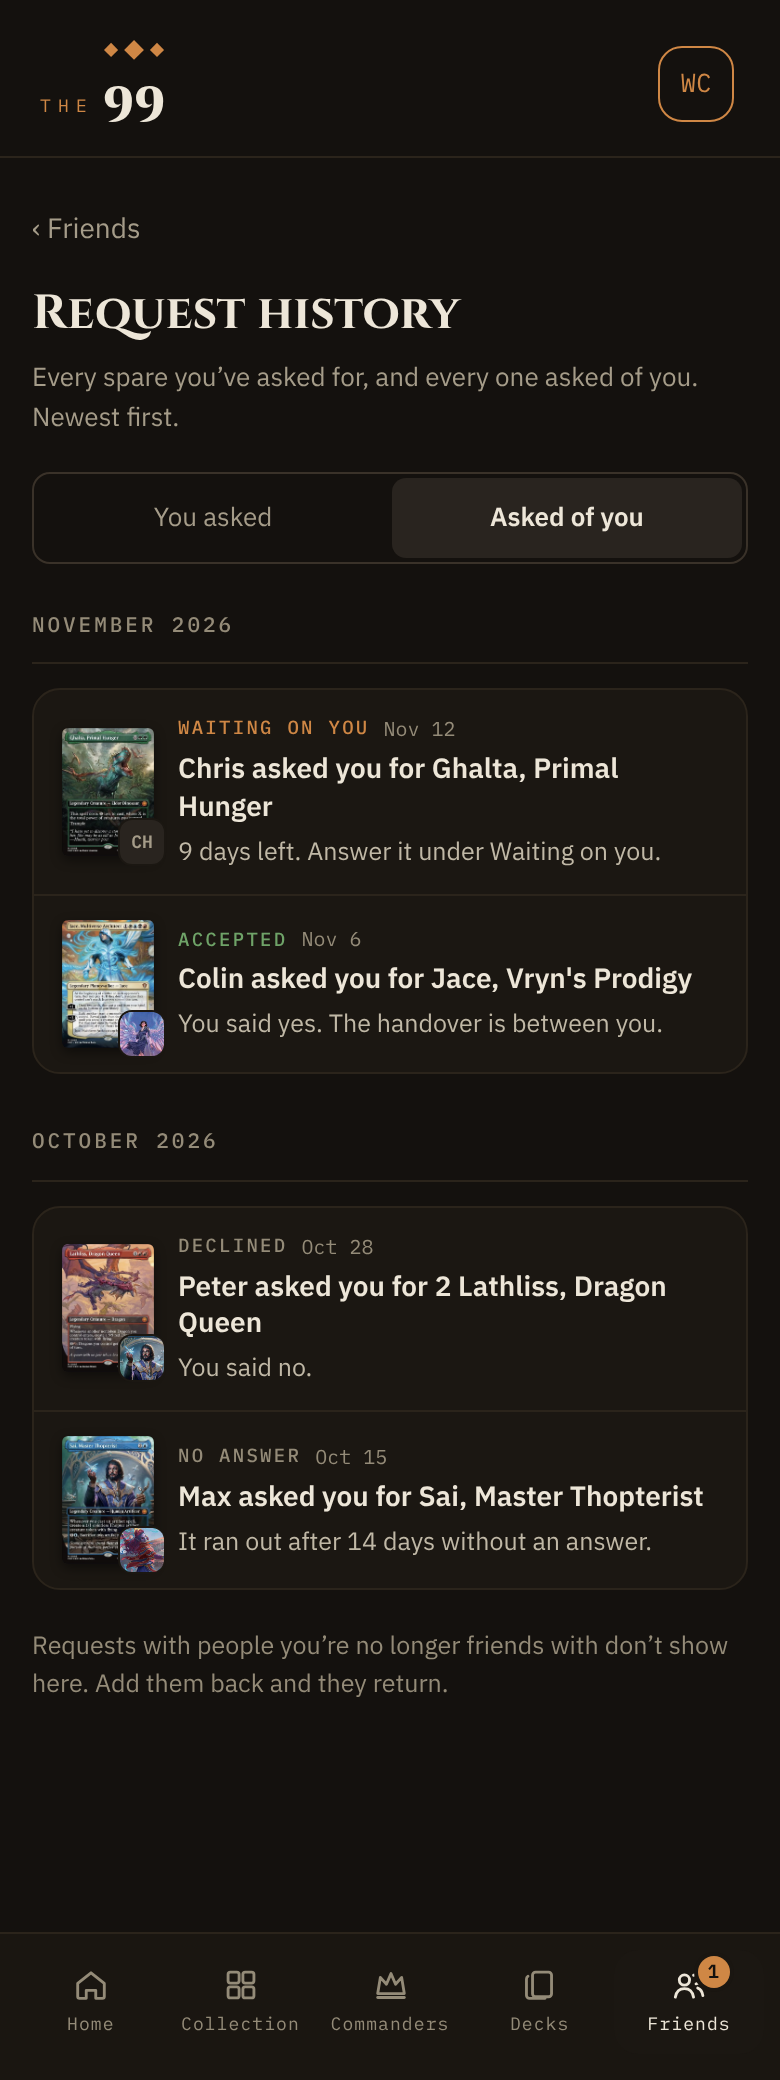
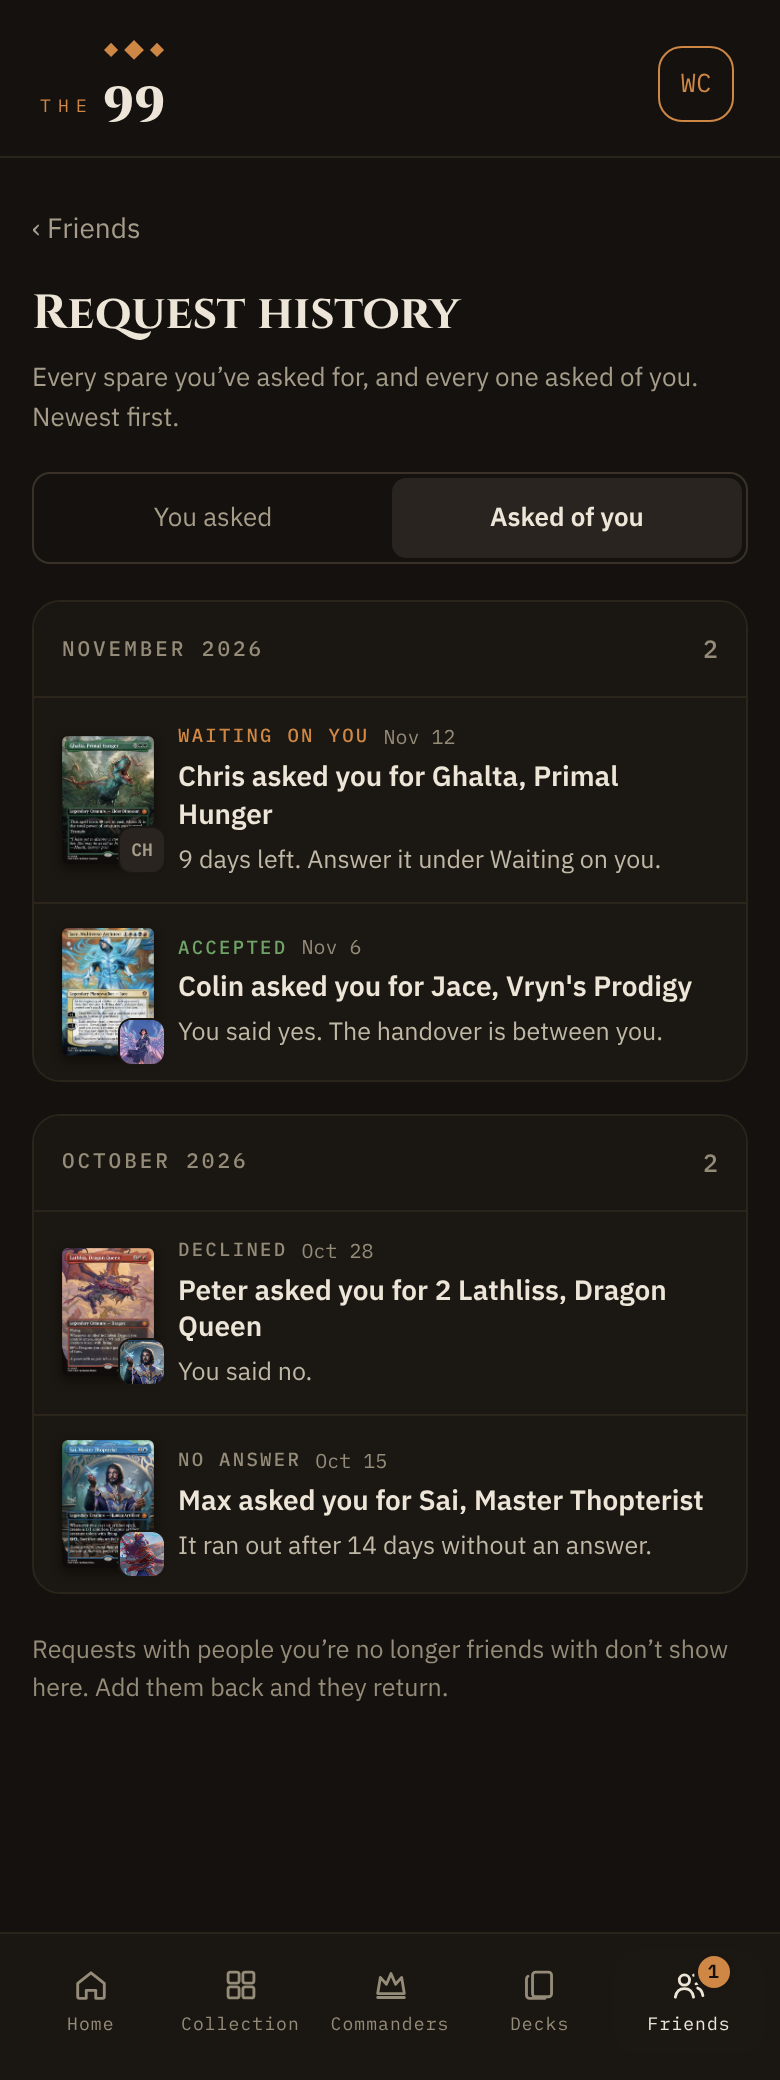
account-2 2026-11-18: card request history R1b (Hugh's feedback)
Sections become boxes with their heading in a header band (Waiting on you, Your requests,
Friends, history months); empty states get the handover mark.

Claude-Session: https://claude.ai/code/session_01UvpaAYUDrERzo7c7bK7Wse

diff --git a/account-2/design_handoff_the99_request_history/scratch-gen/section-panel.tsx b/account-2/design_handoff_the99_request_history/scratch-gen/section-panel.tsx
@@ -1,0 +1,58 @@
+// PROPOSAL (request history R1b, Hugh 2026-11-17): a section's heading and its links live INSIDE the box that holds its
+// rows, as the box's header band, never on a bare hairline above it. One shape for Waiting on you, Your requests, Friends
+// and each month of Request history. Empty states get a drawn mark, from the CardFan family's tokens.
+import type { ReactNode } from "react";
+import { SpareGlyph } from "./spare-key-item";
+
+/** The box: the shipped list well (Your requests' `ul`), now holding its own heading. */
+export const PANEL =
+  "mt-[26px] overflow-hidden rounded-[14px] bg-[color:var(--surface-inset)] [border:1px_solid_var(--border)] md:mt-[34px]";
+
+/** The header band: the shipped section-head type, on the rail ground, a hairline under it, links at its end. */
+export const BAND =
+  "m-0 flex min-h-[48px] items-center justify-between gap-[12px] bg-[color:var(--surface-rail)] pl-[14px] pr-[6px] font-mono text-[10.5px] font-medium uppercase tracking-[.14em] text-[color:var(--fg-faint)] outline-none [border-bottom:1px_solid_var(--border)] md:min-h-[44px] md:pl-[16px] md:pr-[8px]";
+
+/** A link or press at the band's end: 44px tall at phone, the bar's sans. */
+export const BAND_LINK =
+  "flex min-h-[44px] items-center px-[8px] font-sans text-[12.5px] font-medium normal-case tracking-normal text-[color:var(--fg)] no-underline md:min-h-[36px]";
+
+/**
+ * The handover mark: two cards, a friend's (dashed, behind) and the one passed (accent edge, tilted forward), with the
+ * spare glyph on the passed card. Tokens only, in CardFan's inks. Decorative: the heading says it in words.
+ */
+export function HandoverMark({ size = "sm" }: { size?: "sm" | "lg" }) {
+  const lg = size === "lg";
+  const W = lg ? 132 : 72, H = lg ? 112 : 62, cw = lg ? 54 : 30, ch = lg ? 76 : 42, rx = lg ? 8 : 5;
+  return (
+    <span aria-hidden className="relative inline-flex" style={{ width: W, height: H }}>
+      <svg viewBox={`0 0 ${W} ${H}`} width={W} height={H}>
+        <g transform={`translate(${W * 0.36}, ${H / 2}) rotate(-10)`}>
+          <rect x={-cw / 2} y={-ch / 2} width={cw} height={ch} rx={rx} fill="var(--elevated)" stroke="var(--border-dashed)" strokeWidth="1.5" strokeDasharray="4 3" />
+        </g>
+        <g transform={`translate(${W * 0.62}, ${H / 2 + (lg ? 4 : 2)}) rotate(12)`}>
+          <rect x={-cw / 2} y={-ch / 2} width={cw} height={ch} rx={rx} fill="var(--border)" stroke="var(--accent)" strokeWidth="1.5" />
+        </g>
+        <path d={lg ? `M ${W * 0.2} ${H * 0.16} C ${W * 0.38} ${H * 0.02}, ${W * 0.62} ${H * 0.02}, ${W * 0.78} ${H * 0.14}` : `M ${W * 0.2} ${H * 0.14} C ${W * 0.38} ${H * 0.01}, ${W * 0.62} ${H * 0.01}, ${W * 0.78} ${H * 0.12}`}
+          fill="none" stroke="var(--fg-faint)" strokeWidth="1.5" strokeLinecap="round" />
+        <path d={`M ${W * 0.78 - 5} ${H * (lg ? 0.14 : 0.12) - 5} L ${W * 0.78} ${H * (lg ? 0.14 : 0.12)} L ${W * 0.78 - 6} ${H * (lg ? 0.14 : 0.12) + 3}`}
+          fill="none" stroke="var(--fg-faint)" strokeWidth="1.5" strokeLinecap="round" strokeLinejoin="round" />
+      </svg>
+      <span className="absolute text-[color:var(--fact)]" style={{ left: W * 0.62 - (lg ? 11 : 7), top: H / 2 + (lg ? 4 : 2) - (lg ? 11 : 7) }}>
+        <SpareGlyph size={lg ? 22 : 14} />
+      </span>
+    </span>
+  );
+}
+
+/** An empty panel body: the mark, a title, one line, at most one press. */
+export function PanelEmpty({ title, body, action, size = "sm" }: { title: string; body: string; action?: ReactNode; size?: "sm" | "lg" }) {
+  const lg = size === "lg";
+  return (
+    <div className={`flex flex-col items-center text-center ${lg ? "gap-[8px] px-[22px] pb-[30px] pt-[28px] md:pb-[38px] md:pt-[36px]" : "gap-[6px] px-[18px] pb-[22px] pt-[20px]"}`}>
+      <HandoverMark size={size} />
+      <p className={`m-0 mt-[6px] font-display font-bold text-[color:var(--fg)] ${lg ? "text-[19px] md:text-[21px]" : "text-[16px]"}`}>{title}</p>
+      <p className={`m-0 max-w-[380px] leading-[1.55] text-[color:var(--fg-body)] ${lg ? "text-[13.5px]" : "text-[13px]"}`}>{body}</p>
+      {action}
+    </div>
+  );
+}

diff --git a/account-2/design_handoff_the99_request_history/Main.dc.html b/account-2/design_handoff_the99_request_history/Main.dc.html
@@ -20,16 +20,21 @@ p{margin:0}
 .box{border:1px solid #3A3229;border-radius:14px;padding:22px 24px;display:flex;flex-direction:column;gap:12px;background:#15120F}
 </style>
 </helmet>
-<div style="width: 1400px; min-height: 1500px; box-sizing: border-box; padding: 48px 56px 64px; background: #0D0B09; font-family: 'IBM Plex Sans', sans-serif; color: #EDE6D8; display: flex; flex-direction: column; gap: 26px">
+<div style="width: 1400px; min-height: 1800px; box-sizing: border-box; padding: 48px 56px 64px; background: #0D0B09; font-family: 'IBM Plex Sans', sans-serif; color: #EDE6D8; display: flex; flex-direction: column; gap: 26px">
 <div style="display: flex; flex-direction: column; gap: 9px">
 <p class="lab"><b>R1</b> · Issue #2984 · Account 2 · 2026-11-18</p>
 <h1 style="margin: 0; font: 700 34px 'Cinzel', serif">Request history</h1>
 <p style="font-size: 15px; line-height: 1.6; color: #C0B8A6; max-width: 1100px">Every spare request you made, and every one made of you, with how it ended and when. The data is already kept: a ✕ only marks an ask cleared, never deletes it. Every frame is the shipped shell and the shipped Friends page, rendered from main with the shipped CSS, with this round’s proposal applied.</p>
 </div>
+<div class="box" style="border-color: #CF8745">
+<p class="lab"><b>R1b</b> · Hugh’s feedback, 2026-11-17</p>
+<div class="it"><span class="n">B1</span><p><b>Headings live inside their box.</b> Waiting on you, Your requests, Friends and each month of history are one panel: a header band (the shipped section-head type on the rail ground, links at its end) above the rows. No heading on a bare hairline.</p></div>
+<div class="it"><span class="n">B2</span><p><b>Empty states get a drawn mark</b>: the handover mark (a friend’s dashed card, the passed card with an accent edge and the spare glyph, an arc between) in CardFan’s inks, then a title and one line. Small inside Your requests (E2), large on an empty history tab (H3).</p></div>
+</div>
 <div style="display: grid; grid-template-columns: repeat(2, minmax(0, 1fr)); gap: 24px">
 <div class="box">
 <p class="lab"><b>Calls</b></p>
-<div class="it"><span class="n">1</span><p><b>The way in is “History ›” on Your requests’ head</b>, beside “newest first” (E1). With nothing open but a history, the section stays as its head and “Nothing open right now.” (E2). With no history at all, the section is absent, as today. The answer sheet’s “All your requests ›” is unchanged.</p></div>
+<div class="it"><span class="n">1</span><p><b>The way in is “History ›” in Your requests’ band</b>, beside “newest first” (E1). With nothing open but a history, the box stays with its band and an empty state (E2). With no history at all, the section is absent, as today. The answer sheet’s “All your requests ›” is unchanged.</p></div>
 <div class="it"><span class="n">2</span><p><b>One page, /friends/requests</b>: the friend page’s “‹ Friends”, a title, one line, and the shipped segmented switch (compact; fills the width on a phone): <b>You asked · Asked of you</b>. No new menu row.</p></div>
 <div class="it"><span class="n">3</span><p><b>Rows are Your requests’ shipped rows</b>: the card at card shape with the friend’s face in its corner, kicker, title, line. <b>No ✕ and no Ask again</b>: history only shows, and the live list keeps every action (one control per action). <b>The whole row opens card details.</b></p></div>
 <div class="it"><span class="n">4</span><p><b>Outcomes in the shipped words.</b> You asked: Requested, Accepted, Declined, No answer, Withdrawn. Asked of you: Waiting on you, Accepted, Declined, No answer. The kicker’s date is when it ended (an open one: when asked); the line names the deck and the day you asked.</p></div>
@@ -56,7 +61,7 @@ p{margin:0}
 </div>
 </div>
 </x-dc>
-<script type="text/x-dc" data-dc-script data-props='{"$preview":{"width":1400,"height":1500}}'>
+<script type="text/x-dc" data-dc-script data-props='{"$preview":{"width":1400,"height":1800}}'>
 class Component extends DCLogic {
 renderVals() { return {}; }
 }

diff --git a/account-2/design_handoff_the99_request_history/Entry.dc.html b/account-2/design_handoff_the99_request_history/Entry.dc.html
@@ -21,15 +21,16 @@ p{margin:0}
 .shot{display:block;width:100%;border-radius:14px;border:1px solid #3A3229}
 </style>
 </helmet>
-<div style="width: 1622px; min-height: 1180px; box-sizing: border-box; padding: 48px 56px 64px; background: #0D0B09; font-family: 'IBM Plex Sans', sans-serif; color: #EDE6D8; display: flex; flex-direction: column; gap: 30px">
+<div style="width: 1622px; min-height: 1480px; box-sizing: border-box; padding: 48px 56px 64px; background: #0D0B09; font-family: 'IBM Plex Sans', sans-serif; color: #EDE6D8; display: flex; flex-direction: column; gap: 30px">
 <div style="display: flex; flex-direction: column; gap: 9px; max-width: 1500px">
 <p class="lab"><b>E</b> · Friends · 390 and 1300</p>
+<p class="lab"><b>R1b</b> · every section is a box with its heading inside</p>
 <h2 style="margin: 0; font: 700 30px 'Cinzel', serif">History is one press from Your requests</h2>
-<p style="font-size: 14px; line-height: 1.6; color: #C0B8A6">The shipped section gains “History ›” on its head. Nothing else on the rows changes.</p>
+<p style="font-size: 14px; line-height: 1.6; color: #C0B8A6">Each section (Waiting on you, Your requests, Friends) is now one box: its heading and links sit in a header band inside, on the rail ground, above the rows. “History ›” ends Your requests’ band. The rows themselves are unchanged.</p>
 </div>
 <div style="display: flex; gap: 40px; align-items: flex-start">
-<div class="ph"><p class="lab"><b>E1</b> · two open, phone</p><img class="shot" src="art/E1-phone.png" alt="Friends on a phone: Your requests with History on its head"><p class="cap"><b>History ›</b> sits after “newest first”, a 44px press.</p></div>
-<div class="ph"><p class="lab"><b>E2</b> · nothing open, phone</p><img class="shot" src="art/E2-phone.png" alt="Friends on a phone: Your requests head with Nothing open right now"><p class="cap">Nothing live but a history to show: the head and <b>“Nothing open right now.”</b> No history: the section is absent, as today.</p></div>
+<div class="ph"><p class="lab"><b>E1</b> · two open, phone</p><img class="shot" src="art/E1-phone.png" alt="Friends on a phone: Your requests with History on its head"><p class="cap"><b>History ›</b> sits after “newest first” in the band, a 44px press. Friends gets the same box.</p></div>
+<div class="ph"><p class="lab"><b>E2</b> · nothing open, phone</p><img class="shot" src="art/E2-phone.png" alt="Friends on a phone: Your requests head with Nothing open right now"><p class="cap">Nothing live but a history to show: the box keeps its band, with the <b>handover mark</b>, a title and one line. No history: the section is absent, as today.</p></div>
 <div style="display: flex; flex-direction: column; gap: 30px">
 <div class="dk"><p class="lab"><b>E1</b> · two open, desktop</p><img class="shot" src="art/E1-desk.png" alt="Friends on desktop with History on Your requests"></div>
 <div class="dk"><p class="lab"><b>E2</b> · nothing open, desktop</p><img class="shot" src="art/E2-desk.png" alt="Friends on desktop with nothing open"></div>
@@ -37,7 +38,7 @@ p{margin:0}
 </div>
 </div>
 </x-dc>
-<script type="text/x-dc" data-dc-script data-props='{"$preview":{"width":1622,"height":1180}}'>
+<script type="text/x-dc" data-dc-script data-props='{"$preview":{"width":1622,"height":1480}}'>
 class Component extends DCLogic {
 renderVals() { return {}; }
 }

diff --git a/account-2/design_handoff_the99_request_history/scratch-gen/request-history.tsx b/account-2/design_handoff_the99_request_history/scratch-gen/request-history.tsx
@@ -11,6 +11,7 @@ import { PersonInitials, PersonText, personText, type PersonParts, type ThirdPar
 import { FadingImg } from "../ui/hydrated-art";
 import { ART_CROP_TRIM } from "../ui/art-crop-trim";
 import { SegmentedSwitch } from "../ui/segmented-switch";
+import { BAND, PANEL, PanelEmpty } from "./section-panel";
 
 export type HistoryRow = {
   id: string;
@@ -51,7 +52,8 @@ export const historyCopy = {
   emptyAsked: { title: "You haven’t asked for a spare yet", body: "Ask a friend from a card’s spares in Shopping or on their Spares tab." },
   emptyOfYou: { title: "Nobody has asked you for a spare yet", body: "When a friend asks for one of your spares, it waits on you on Friends." },
   entry: "History ›",
-  noneOpen: "Nothing open right now.",
+  noneOpenTitle: "Nothing open right now",
+  noneOpenBody: "Ask a friend for a spare from Shopping or their Spares tab. Every past request is in History.",
 } as const;
 const h = historyCopy;
 
@@ -97,9 +99,9 @@ export function HistoryList({ rows, dir, more }: { rows: readonly HistoryRow[]; 
   return (
     <div className="flex flex-col">
       {groups.map((g) => (
-        <section key={g.label} className="mt-[22px] first:mt-[18px]">
-          <h2 className="m-0 flex min-h-[32px] items-center font-mono text-[10.5px] font-medium uppercase tracking-[.14em] text-[color:var(--fg-faint)] [border-bottom:1px_solid_var(--border)] pb-[6px]">{g.label}</h2>
-          <ul className="m-0 mt-[12px] flex list-none flex-col overflow-hidden rounded-[14px] bg-[color:var(--surface-inset)] p-0 [border:1px_solid_var(--border)]">
+        <section key={g.label} className={`${PANEL} mt-[16px]! first:mt-[18px]!`}>
+          <h2 className={BAND}>{g.label}<span className="pr-[8px] font-sans text-[12.5px] font-medium normal-case tracking-normal">{g.rows.length}</span></h2>
+          <ul className="m-0 flex list-none flex-col p-0">
             {g.rows.map((a) => {
               const t = rowText(a, dir);
               return (
@@ -133,9 +135,8 @@ export function HistoryList({ rows, dir, more }: { rows: readonly HistoryRow[]; 
 function Empty({ dir }: { dir: "asked" | "ofYou" }) {
   const e = dir === "asked" ? h.emptyAsked : h.emptyOfYou;
   return (
-    <div className="mt-[18px] rounded-[14px] bg-[color:var(--surface-inset)] px-[18px] py-[22px] [border:1px_solid_var(--border)]">
-      <p className="m-0 text-[14px] font-semibold text-[color:var(--fg)]">{e.title}</p>
-      <p className="m-0 mt-[4px] text-[12.5px] leading-[1.5] text-[color:var(--fg-body)]">{e.body}</p>
+    <div className={`${PANEL} mt-[18px]!`}>
+      <PanelEmpty size="lg" title={e.title} body={e.body} />
     </div>
   );
 }

diff --git a/account-2/design_handoff_the99_request_history/History-Phone.dc.html b/account-2/design_handoff_the99_request_history/History-Phone.dc.html
@@ -24,12 +24,12 @@ p{margin:0}
 <div style="display: flex; flex-direction: column; gap: 9px; max-width: 1200px">
 <p class="lab"><b>H</b> · /friends/requests · 390</p>
 <h2 style="margin: 0; font: 700 30px 'Cinzel', serif">Every request, how it ended, and when</h2>
-<p style="font-size: 14px; line-height: 1.6; color: #C0B8A6">Your requests’ shipped rows with no ✕ and no Ask again. The whole row opens card details.</p>
+<p style="font-size: 14px; line-height: 1.6; color: #C0B8A6">Each month is one box, its name and count in the header band. Your requests’ shipped rows with no ✕ and no Ask again; the whole row opens card details.</p>
 </div>
 <div style="display: flex; gap: 40px; align-items: flex-start">
 <div class="ph"><p class="lab"><b>H1</b> · You asked</p><img class="shot" src="art/H1-phone.png" alt="Request history, You asked, grouped by month"><p class="cap">Every outcome: Requested, Accepted, Declined, Withdrawn, No answer. A cleared ask still shows. <b>Show older requests</b> after 30.</p></div>
 <div class="ph"><p class="lab"><b>H2</b> · Asked of you</p><img class="shot" src="art/H2-phone.png" alt="Request history, Asked of you"><p class="cap">An open one says <b>where to answer</b>, never offers Yes or No here. No withdrawn rows on this side. The foot line shows only when an ex-friend has rows (Q2).</p></div>
-<div class="ph"><p class="lab"><b>H3</b> · an empty tab</p><img class="shot" src="art/H3-phone.png" alt="Request history, Asked of you empty"><p class="cap">One tab can be empty while the other is not: it names where requests come from.</p></div>
+<div class="ph"><p class="lab"><b>H3</b> · an empty tab</p><img class="shot" src="art/H3-phone.png" alt="Request history, Asked of you empty"><p class="cap">One tab can be empty while the other is not: the large handover mark, a title, and where requests come from, in the same box.</p></div>
 </div>
 </div>
 </x-dc>

diff --git a/account-2/design_handoff_the99_request_history/scratch-gen/render.tsx b/account-2/design_handoff_the99_request_history/scratch-gen/render.tsx
@@ -79,8 +79,8 @@ const friendsPage = (rows: any[]) => (
     waiting={<YourRequests rows={rows} now={NOW} history />} />
 );
 for (const dev of ["phone", "desk"] as Dev[]) {
-  app(`E1-${dev}`, dev, friendsPage(LIVE));
-  app(`E2-${dev}`, dev, friendsPage([]));
+  app(`E1-${dev}`, dev, friendsPage(LIVE), { vh: dev === "phone" ? 1180 : 960 });
+  app(`E2-${dev}`, dev, friendsPage([]), { vh: dev === "phone" ? 1140 : 860 });
   app(`H1-${dev}`, dev, <RequestHistory asked={ASKED} ofYou={OFYOU} tab="asked" more />, { path: "/friends", vh: dev === "phone" ? 1390 : 1300 });
   app(`H2-${dev}`, dev, <RequestHistory asked={ASKED} ofYou={OFYOU} tab="ofYou" exFriends />, { path: "/friends", vh: dev === "phone" ? 1040 : 900 });
 }

diff --git a/account-2/design_handoff_the99_request_history/README.md b/account-2/design_handoff_the99_request_history/README.md
@@ -1,12 +1,16 @@
-# The 99 — Card request history · R1 · awaiting Hugh's review
+# The 99 — Card request history · R1b · awaiting Hugh's review
 
 Account 2, 2026-11-18. Issue featherweight-design/the-99#2984. Canvas (account 2): "The 99 · Request History R1".
 Open the `.dc.html` files with `support.js` beside them; frames are PNGs in `art/` (the shipped shell and Friends page
 rendered from main with the shipped CSS, with the proposal applied).
 
+## R1b (Hugh, 2026-11-17)
+- **B1 Headings live inside their box.** Waiting on you, Your requests, Friends and each history month are one panel (`PANEL`): a header band (`BAND`: shipped section-head type on `--surface-rail`, hairline under, links at its end via `BAND_LINK`) above the rows. No heading on a bare hairline. `scratch-gen/section-panel.tsx`, `scratch-gen/sections.diff`.
+- **B2 Empty states get a drawn mark**: `HandoverMark` (friend's dashed card, the passed card with accent edge and spare glyph, an arc), CardFan inks, then title and one line (`PanelEmpty`, sm in Your requests E2, lg on an empty history tab H3).
+
 ## Calls
 1. **Way in: "History ›" on Your requests' head**, after "newest first" (E1). Nothing open but a history: the head and
-   "Nothing open right now." (E2). No history: section absent, as today. The answer sheet's "All your requests ›" stays.
+   an empty state, "Nothing open right now" (E2). No history: section absent, as today. The answer sheet's "All your requests ›" stays.
 2. **One page, `/friends/requests`**: "‹ Friends", title "Request history", one line, the shipped `SegmentedSwitch`
    (compact, `fill` on phone, `kind="tabs"`): **You asked · Asked of you**.
 3. **Rows = Your requests' shipped rows** (card at card shape, friend's face in the corner, kicker, title, line) with
@@ -32,5 +36,5 @@ rendered from main with the shipped CSS, with the proposal applied).
 - G5 Copy review owed on the new strings (`scratch-gen/request-history.tsx`, `historyCopy`).
 
 ## scratch-gen
-`request-history.tsx` (the page as code), `your-requests.diff` (the head link and empty state), `render.tsx` (frames).
+`request-history.tsx` (the page as code), `section-panel.tsx` (the box, band and empty mark), `sections.diff` (Your requests, Waiting on you, Friends), `render.tsx` (frames).
 Pipeline as `design_handoff_the99_friends_link/scratch-gen/README.md` (scratch copy of main, stubs, css.mjs, shoot.cjs).
